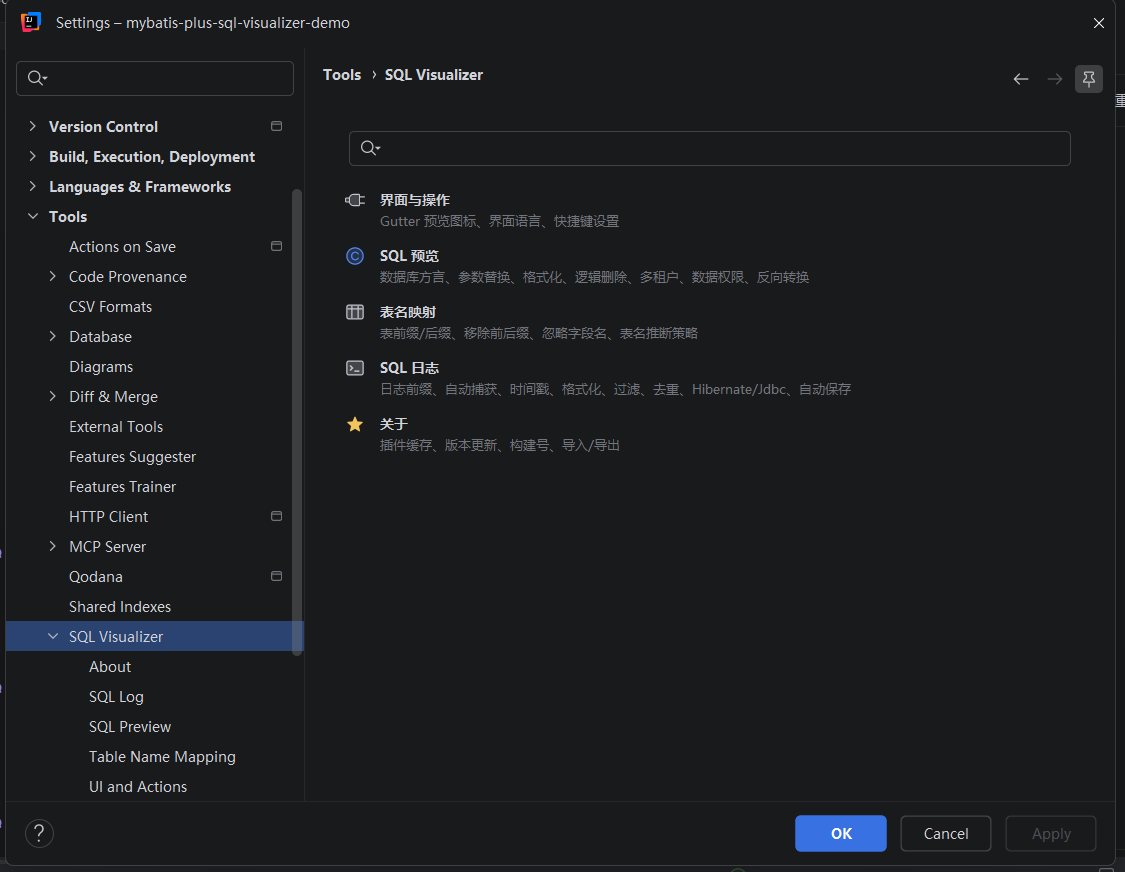
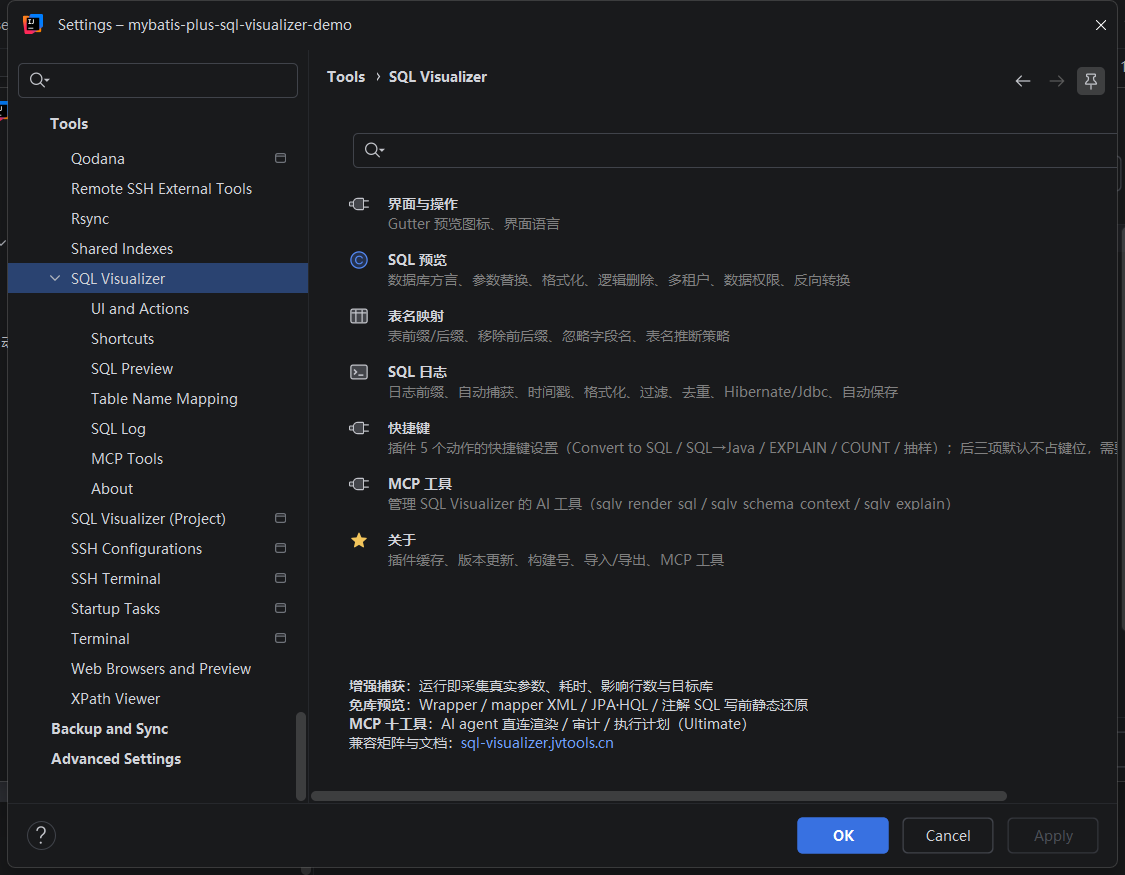
docs(demo): settings.png 重拍——左树补全快捷键/MCP 工具/项目级页（批次 5 收官）
旧图（2026-09-13 / 1125×872）左树只有 5 项，缺 Shortcuts / MCP Tools 两个子页与
SQL Visualizer (Project) 项目级页，右侧落地卡片也只列 5 个分区。
新图 1125×875：左树展开到 Tools > SQL Visualizer 全部子页 + 项目级页，右侧为七项
落地卡片；与同批 settings-*.png 同尺寸同口径。同名替换中英 configuration 首图。

diff --git a/docs/开发计划/20261008-1106-演示资产缺口全量盘点与录制计划-开发计划.md b/docs/开发计划/20261008-1106-演示资产缺口全量盘点与录制计划-开发计划.md
@@ -45,7 +45,7 @@
 | `annotation-preview.gif/.png` | 1280×920 / 912KB | annotation-preview 页 hero |
 | `batch-operation.gif/.png` | 1280×920 / 986KB | batch-operation 页 hero |
 | `code-completion.gif/.png` | 1280×920 / 335KB | code-completion 页 hero |
-| `settings.png` | 1125×872 / 56KB | configuration 页顶部（设置主页面整图） |
+| `settings.png` | **1125×875 / 54KB（20261012 重拍）** | configuration 页顶部（设置主页面整图） |
 
 **结论：10 个功能页都有 hero 图，没有「整页无图」的功能页**；缺的是**页内关键功能节**，以及**指南页**。
 
@@ -483,7 +483,7 @@
 
 ### 11.6 批次 5 待办清单（建议顺序）
 
-1. **待做（需 UI）** 重拍 `settings.png`（设置主页面全貌）→ 替换中英 configuration 首图。
+1. **已完成（20261012）** 重拍 `settings.png`（设置主页面全貌：左树展开到 `Tools > SQL Visualizer` 全部子页 + 右侧七项落地卡片）→ 已同名替换中英 configuration 首图。
 2. **已完成（20261012）** 重录 `wrapper-preview.gif`（含「预设」行的当前面板）→ 已同名替换 features/wrapper-preview hero + getting-started + 首页两组件（**实为 6 处引用**，同名替换一次生效）。
 3. ✅ **已完成（2026-10-12，纯文本）** 设置表补 4 类控件进中英 configuration——实际补了 6 行（分页模拟 2 项 + JdbcTemplate + 数据权限 2 项 + 结构化 EXPLAIN），文案与默认值取自插件 bundle / `PluginSettings`。提交 `a2bc245`。
 4. ✅ **已完成（同上）** getting-started 中英第一步改写：gutter 图标为首选入口 + 「光标须压 token、链内行无图标」提示块。
@@ -491,7 +491,7 @@
 6. 每步完成后 `npm run build` + dist 逐项 grep 核验；**全部完成再统一部署**（未部署前不对外）。第 3~5 步已按此核验通过（含 en 侧数字标题锚点下划线前缀修正）。
 
 - **2026-10-12 批次 5 进度：不需要 UI 的三项已做完（`a2bc245`，未部署）**。①设置表补 6 行（中英）：模拟分页拦截器（COUNT 查询预览，默认开）、附分页 COUNT 查询预览（默认开）、启用 JdbcTemplate SQL 字符串预览（默认开）、显示 DataPermissionInterceptor 运行时差异提示（默认关）、数据权限模拟条件（默认空）、预览面板内结构化渲染 EXPLAIN（默认关，实验特性）——**文案与默认值逐条取自插件 bundle 与 `PluginSettings.kt`，不是凭印象写的**；②getting-started 中英第一步改写（gutter 图标为首选入口 + tip 说明「光标须压 token、停在行首缩进只弹通知、链内 `.eq/.ge` 行按设计无图标」）；③FAQ 中英各补 5 条（分页 COUNT 来源 / 数据权限怎么预览 / JdbcTemplate 字符串 SQL / 结构化 EXPLAIN 为何默认走控制台 / 参数预设与召回）。`npm run build` 通过，dist 逐项 grep 核过（设置表 6 行 ×2、FAQ 5 条 ×2、getting-started 提示 ×2 全在场）。**顺带修一处我自己引入的锚点坑**：en 侧「11-Dialect Pagination」的实际 id 是 `_11-dialect-pagination`（VitePress 对数字开头标题加下划线前缀），链接写成 `#11-…` 会是死锚，已按 dist 实测 id 改正。
-  **批次 5 两项需 UI**：重录 `wrapper-preview.gif` **已于 20261012 完成**（见文末记录）；重拍 `settings.png`（设置主页面全貌，替换中英 configuration 首图）**仍待做**。
+  **批次 5 两项需 UI 均已于 20261012 完成**：`wrapper-preview.gif` 重录 + `settings.png` 重拍（见文末记录）。**批次 5 至此全部完成。**
 
 - **2026-10-12 B4 返工（用户反馈）：口径修正为「两条路线」+ 视觉重做**。用户指出「comparison 页写的是两条路线的定位差异，图却是三条」。**核证结论＝两条路线才对**，三处独立证据一致：①`features/sql-log.md:22` 的小节标题即「两种捕获通道」，表内两行＝增强捕获（默认，推荐）/ 控制台捕获（回落），并写明「条目来源有两种，进入同一列表，展示与操作完全一致」；②`guide/configuration.md` 的增强捕获设置行自述「字节码增强捕获通道……失败自动回落控制台捕获；停止监听时联动停掉应用内采集」；③插件 Marketplace 描述把「运行期捕获（默认开启）」写成一个分组，控制台日志作为该组内回落通道，与「编码期预览」并列。即：**路线 2 条（静态预览 / 日志还原），通道 2 条挂在第二条路线下**；旧图把「运行期捕获」的两条通道提成了并列路线，才与标题打架（按「取数手段」数确实是三种，但插件文档与描述统一用「通道」这个词）。**重做内容**：`public/demo/comparison-routes.svg` 改为「两条路线（第 2 条内含 增强捕获=默认 / 控制台还原=回落 两条通道）→ 统一出口 → 什么时候用」三段式；视觉按大厂图风格重做——8pt 网格与统一圆角、中性色底 + 单一强调蓝 + 路线语义浅底（蓝＝静态 / 紫＝日志）、发丝边框 + 极淡投影、层级靠字号字重而非层层套框、右侧三卡底边与左栏对齐；中英 alt 同步改为两条路线口径（旧 alt 自称「三条取数路线」，与标题直接矛盾）。渲染自查：Chrome headless（须独立 `--user-data-dir`，否则与在跑的 Chrome 冲突静默失败）出 PNG 目视核对两轮，第二轮回正右列三卡底边。`npm run build` 通过；dist 核验中英 alt 均已更新且旧「三条」表述零残留、dist 内 SVG 与源文件 MD5 一致。**已知限制**：该 SVG 为中文标注、中英页共用（与既有 `mcp-overview.svg` 同一约定），且为浅色底图（暗色主题下呈亮色卡片，同既有约定）。
 
@@ -558,3 +558,7 @@
   **两个录制坑（已写进脚本注释）**：
   ① **裸屏捕获下鼠标移动不产生像素变化**，会被 `assemble.py` 的静段裁剪吃掉——纯凝视型 take 只出 3.6s（首版实测）。要片子有长度必须有**真实 UI 变化**（本片靠预览弹出 + 预设行展开）；这也解释了为何 A11 能到 7.5s（EXPLAIN 结果表是真变化）。
   ② **预设行展开态会跨预览保留**，take 前必须归一到「收起」，否则那一下点击反而把已展开的收起（首版末帧仍是收起态）。判据用条带灰度标准差，**阈值 22**——**别照搬「空白≈0」的直觉**：Islands Dark 主题下面板底色灰度均值仅 28，收起态本底噪声就有 13（阈值取 8 会误判成展开，归一化循环连点三次反而把状态弄反）。
+
+- **2026-10-12 批次 5 收官：`settings.png` 重拍完成（同名替换，中英 configuration 首图）**。旧图（2026-09-13 / 1125×872）左树只有 5 项，**缺「快捷键（Shortcuts）」「MCP 工具（MCP Tools）」两个子页与「SQL Visualizer (Project)」项目级页**，右侧落地卡片也只列 5 个分区。新图 **1125×875 / 54KB**：左树展开到 `Tools > SQL Visualizer > {UI and Actions, Shortcuts, SQL Preview, Table Name Mapping, SQL Log, MCP Tools, About}` + `SQL Visualizer (Project)`，右侧为七项落地卡片（界面与操作 / SQL 预览 / 表名映射 / SQL 日志 / 快捷键 / MCP 工具 / 关于）——与同批 `settings-project.png`/`settings-mcp.png`/`settings-log-list.png`/`settings-enhanced-capture.png` 同尺寸同口径。`npm run build` 通过、dist 与源 MD5 一致、中英 configuration 两页命中。
+  **取图技法（可复用）**：设置对话框**不是进程主窗口**，`Get-Process.MainWindowHandle` 看不到它——用 **`EnumWindows` + `GetWindowThreadProcessId` 按 IDE 的 PID 过滤**再 `GetWindowRect` 才拿到精确边界（实测 (399,79) / 1125×875，与同批图完全一致），比按截图目测裁切可靠。
+  **一处偏差（如实登记）**：同批图左树是**按 "SQL Visualizer" 过滤后**的树（搜索框有词），本次搜索框留空、树为**未过滤但滚到 Tools 段**。原因是该搜索框在本沙盒里不稳：输 `SQL Visualizer` 报 "Nothing to show"（"SQL" 被标红判为未命中）、输单字 `Visualizer` 又不筛选只自动选中根节点；且**用 Esc 关补全下拉会连设置对话框一起关掉**（Esc 是对话框的取消键）。内容口径不受影响（插件组全展开 + 落地卡片都在），故按现状交付；后续若要完全对齐同批样式，需先弄清该搜索框的匹配规则。
